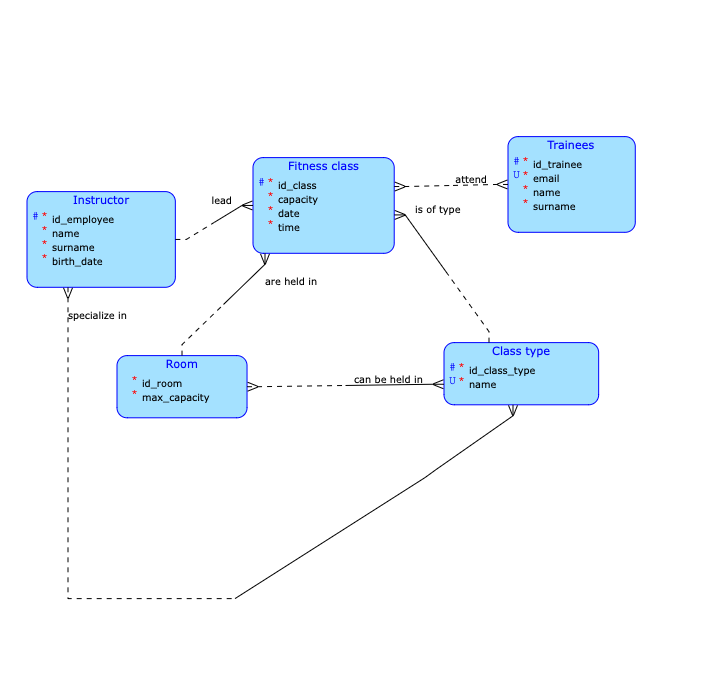
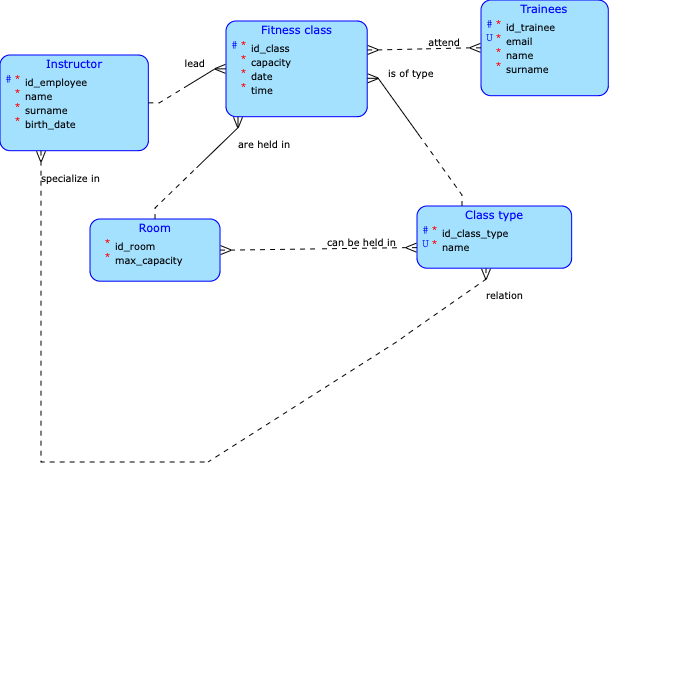
new model, class type doesnt require room or instructor

diff --git a/fitnessApp/src/main/java/cz/cvut/fit/tjv/fitnessApp/Main.java b/fitnessApp/src/main/java/cz/cvut/fit/tjv/fitnessApp/Main.java
@@ -1,0 +1,2 @@
+package cz.cvut.fit.tjv.fitnessApp;public class Main {
+}
